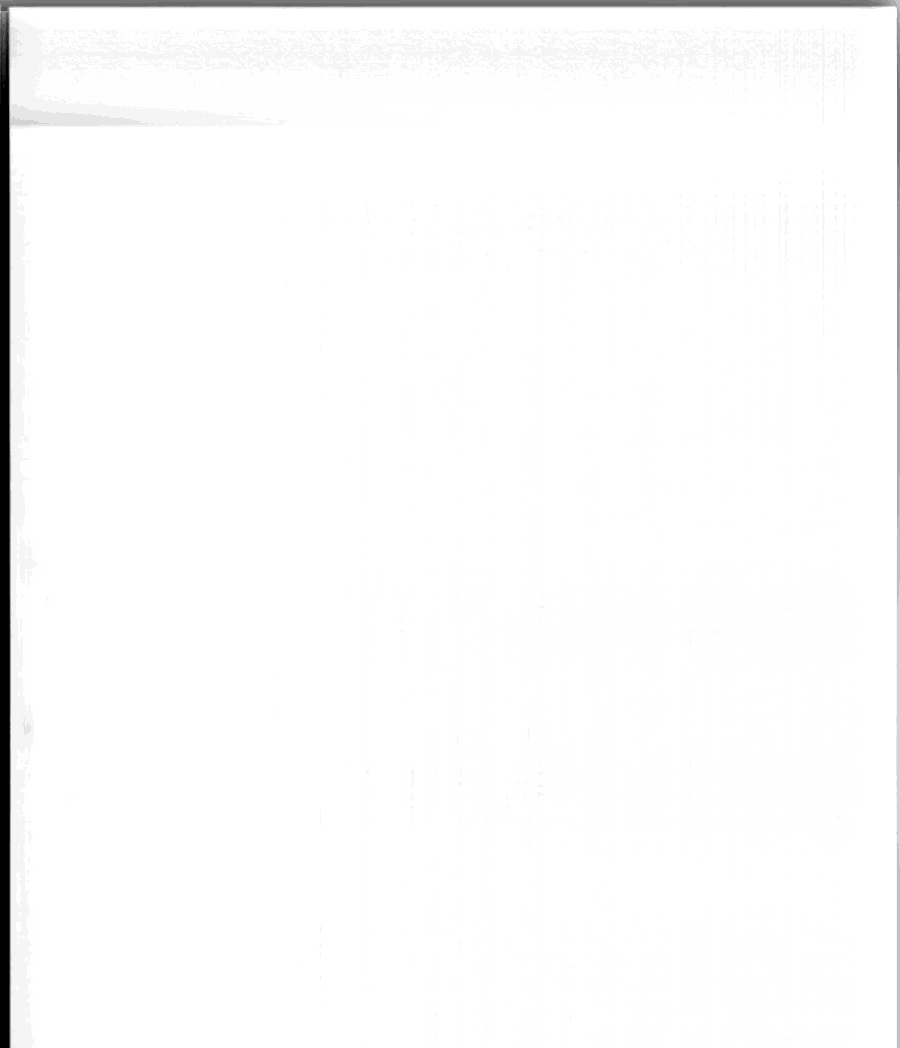
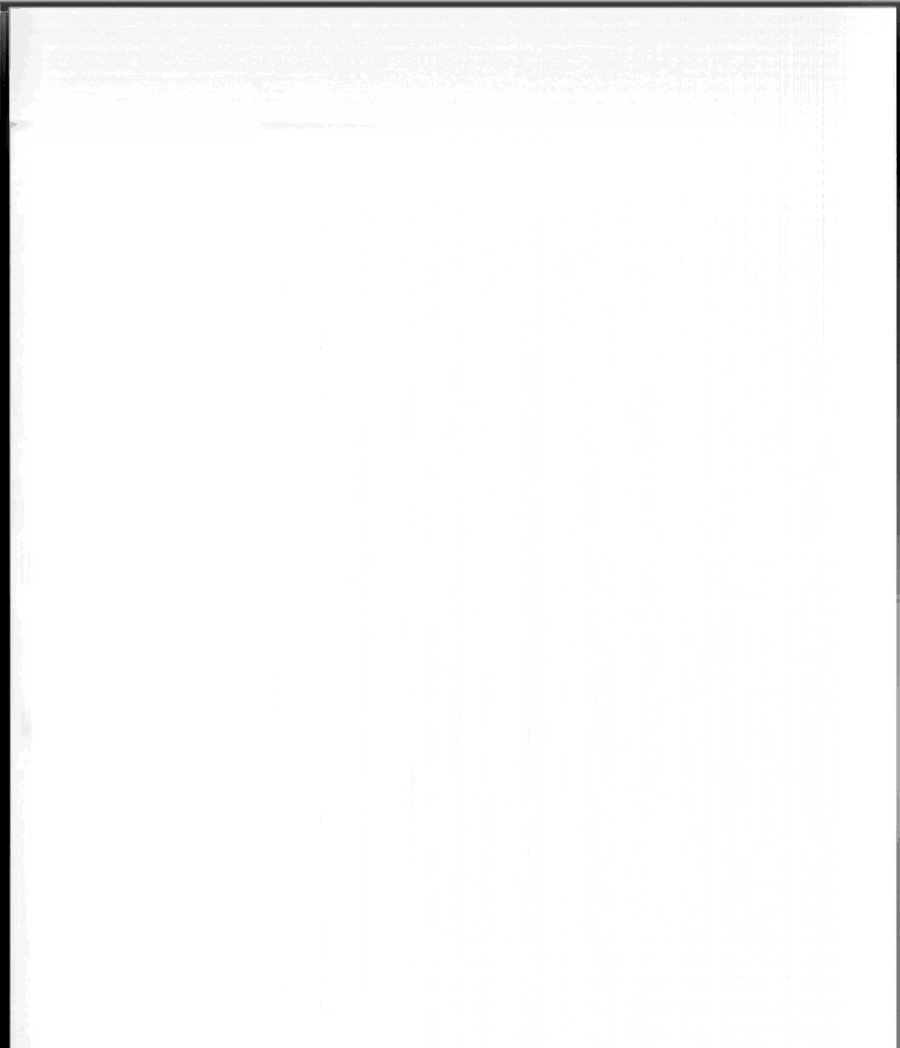
2D: snappier ride, slide and button timings; door shadow line pinned to the doorway

Changed region(s): [[0.0, 0.0, 1.0, 1.0], [0.0, 0.0916, 0.0311, 0.1221]]

diff --git a/2d/index.html b/2d/index.html
@@ -642,7 +642,7 @@
 #lift .panel .btn{--sheen:0deg; --ring:0; transition:--sheen .7s cubic-bezier(.2,.8,.2,1), --ring .35s ease}
 #lift .panel .btn .cap{background:conic-gradient(from var(--sheen),#fbf7ee,#a39988 11%,#ece5d6 25%,#857c6d 38%,#ddd5c5 50%,#857c6d 62%,#ece5d6 75%,#a39988 89%,#fbf7ee) !important}
 #lift .panel .btn .cap::after{content:""; position:absolute; inset:8.5%; border-radius:50%; box-shadow:inset 0 0 0 .18cqw rgba(40,30,15,.55),inset 0 .5cqw .6cqw rgba(0,0,0,.45); pointer-events:none}
-#lift .panel .btn .ico{isolation:isolate; transition:transform .16s ease-out, box-shadow .16s ease-out !important}
+#lift .panel .btn .ico{isolation:isolate; transition:transform .08s ease-out, box-shadow .08s ease-out !important}
 #lift .panel .btn .ico::after{content:""; position:absolute; inset:0; border-radius:50%; z-index:-1; pointer-events:none;
   background:conic-gradient(from calc(var(--sheen) - 20deg),rgba(255,255,255,.75),rgba(255,255,255,0) 13%,rgba(60,45,20,.12) 25%,rgba(255,255,255,0) 37%,rgba(255,255,255,.55) 50%,rgba(255,255,255,0) 63%,rgba(60,45,20,.12) 75%,rgba(255,255,255,0) 87%,rgba(255,255,255,.75));
   box-shadow:inset 0 0 0 .14cqw rgba(255,255,255,.5),inset 0 0 0 .3cqw rgba(60,45,20,.14)}
@@ -656,7 +656,7 @@
   55%{transform:translateY(.28cqw) scale(.9); box-shadow:inset 0 .5cqw .7cqw rgba(60,45,20,.38),inset 0 -.3cqw .5cqw rgba(60,45,20,.3),0 0 .1cqw rgba(0,0,0,.8)}
   82%{transform:translateY(-.05cqw) scale(1.012)}
   100%{transform:translateY(.08cqw) scale(.975)}}
-#lift .panel .btn.press .ico{animation:liftPress .42s cubic-bezier(.3,.7,.3,1) !important}
+#lift .panel .btn.press .ico{animation:liftPress .26s cubic-bezier(.3,.7,.3,1) !important}
 #lift .panel .btn:active .ico{transform:translateY(.28cqw) scale(.9) !important}
 @media (prefers-reduced-motion:reduce){#lift .panel .btn,#lift .panel .btn .ico,#lift .panel .btn .lbl{transition:none !important}}
 /* --- door frame: satin stainless header and jambs with a bright chamfer and a dark return --- */
@@ -849,13 +849,13 @@
     // scroll-scrubbed doors
     doorZone: 0.7,         // scroll distance (in screen heights) for the doors to close — and the same again to open
     closedHold: 0.28,      // fraction of the zone where the doors sit fully shut
-    doorEase: 0.22,        // smoothing (0–1). Lower = floatier, higher = tighter to the scroll
+    doorEase: 0.3,        // smoothing (0–1). Lower = floatier, higher = tighter to the scroll
     scrollDing: true,      // soft ding when you pass a floor by scrolling
 
     // button-panel ride
-    doorMs: 950,
-    perFloorMs: 750,
-    arriveDwellMs: 300,
+    doorMs: 700,
+    perFloorMs: 520,
+    arriveDwellMs: 180,
     bellHz: 1046.5,
 
     startAtBottom: false,  // true = loads on the ground floor; scroll UP to ride up (floors must be one screen each). List floors ground → top.
@@ -873,7 +873,7 @@
     recess: 0.018,
     doorThickness: 0.035,  // depth of each door leaf (fraction of screen width) — shows on the leading edges as they move         // how far the doors sit back behind the front wall (fraction of screen width)
     persp: 1.1,            // camera distance from the doors, as a fraction of screen width (lower = wider lens)
-    turnMs: 900,           // camera slide duration
+    turnMs: 600,           // camera slide duration
     panelOffset: 0.02,     // panel sits on the front wall this far past the right edge of the screen (fraction of width)
     panelWallExt: 1,       // how far the front wall carries on past the screen edge before the cab corner
     revealDistance: 90,    // px — mouse this close to the right edge turns the camera to the panel
@@ -1509,12 +1509,12 @@
     const dir = t > cur ? 1 : -1;
     btns[t].classList.add('lit');
     clearTimeout(idleTimer);
-    if (turned) { await sleep(T(250)); look(false); await sleep(T(CFG.turnMs)); }
+    if (turned) { await sleep(T(120)); look(false); await sleep(T(CFG.turnMs)); }
 
     root.classList.add('ride');
     void root.offsetWidth;
     setC(1); doorSound();
-    await sleep(T(CFG.doorMs + 200));
+    await sleep(T(CFG.doorMs + 80));
 
     setArrow(dir); jolt(); root.classList.add('moving'); humOn();
     let i = cur;
@@ -1525,7 +1525,7 @@
     cur = t; markHere(t);
     await sleep(T(CFG.arriveDwellMs));
     ding(dir); btns[t].classList.remove('lit');
-    await sleep(T(350));
+    await sleep(T(180));
 
     setC(0); doorSound();
     await sleep(T(CFG.doorMs));
